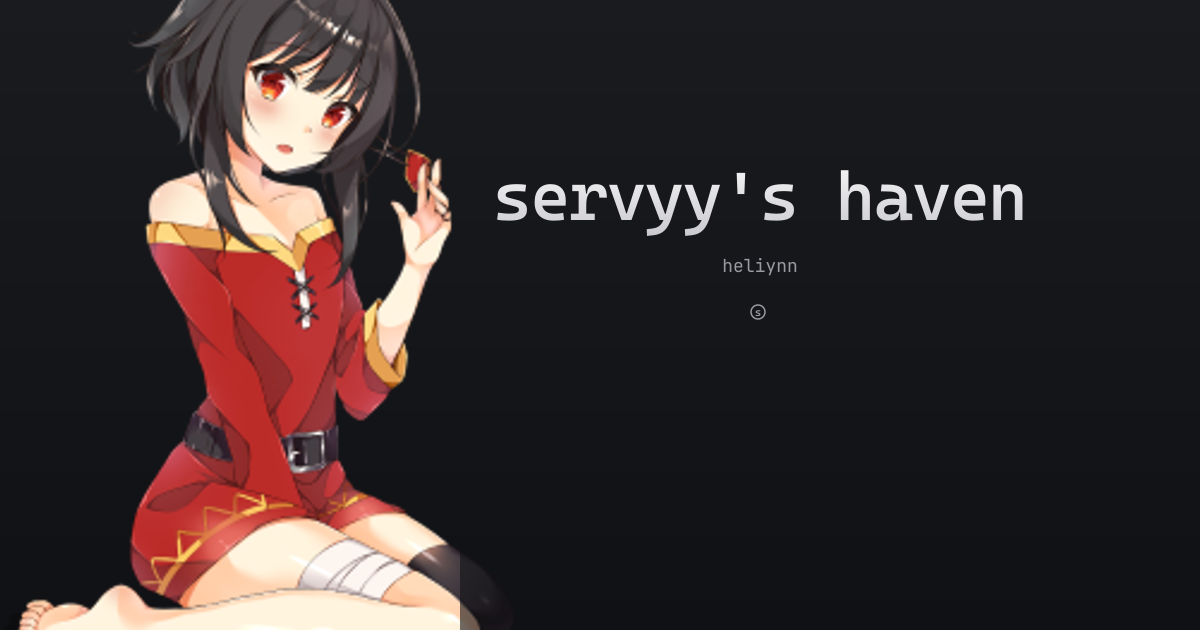
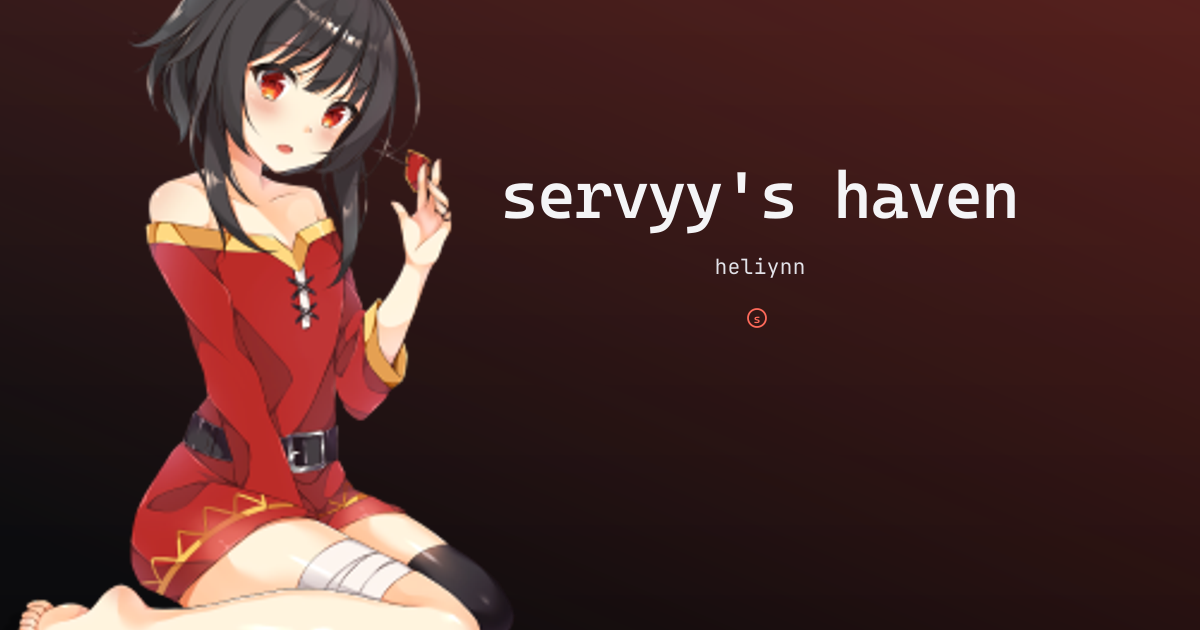
Make the embed subtitle readable and reword the share description
share.png: 'heliynn' goes from 18px #9a9aa2 to 21px #e2e2e8 and the badge picks up the red accent, so both survive Discord's thumbnail downscaling. Background warmed to match the new red theme.

og/twitter description drops the balanced em-dash clause for the plain version from the page.

Generated with Codebuff

diff --git a/index.html b/index.html
@@ -4,11 +4,11 @@
   <meta charset="utf-8" />
   <meta name="viewport" content="width=device-width, initial-scale=1" />
   <title>servyy</title>
-  <meta name="description" content="I'm heliynn. I use AI to make small tools and websites, usually for myself which i then share publicly :3" />
+  <meta name="description" content="I'm heliynn. I use AI to make small tools and websites, then leave them here for whoever wants them." />
   <meta name="theme-color" content="#08080a" />
   <meta property="og:type" content="website" />
   <meta property="og:title" content="servyy's haven" />
-  <meta property="og:description" content="I'm heliynn. I build small tools and websites — usually for myself, shared publicly." />
+  <meta property="og:description" content="I'm heliynn. I use AI to make small tools and websites, then leave them here for whoever wants them." />
   <meta property="og:image" content="https://heliynn.github.io/assets/share.png" />
   <meta property="og:image:type" content="image/png" />
   <meta property="og:image:width" content="1200" />
@@ -16,7 +16,7 @@
   <meta property="og:image:alt" content="servyy's haven — a portrait of the white-haired character from the page on a dark background" />
   <meta name="twitter:card" content="summary_large_image" />
   <meta name="twitter:title" content="servyy's haven" />
-  <meta name="twitter:description" content="I'm heliynn. I build small tools and websites — usually for myself, shared publicly." />
+  <meta name="twitter:description" content="I'm heliynn. I use AI to make small tools and websites, then leave them here for whoever wants them." />
   <meta name="twitter:image" content="https://heliynn.github.io/assets/share.png" />
   <link rel="icon" href="favicon.svg" type="image/svg+xml" />
   <link rel="preconnect" href="https://fonts.googleapis.com" />
